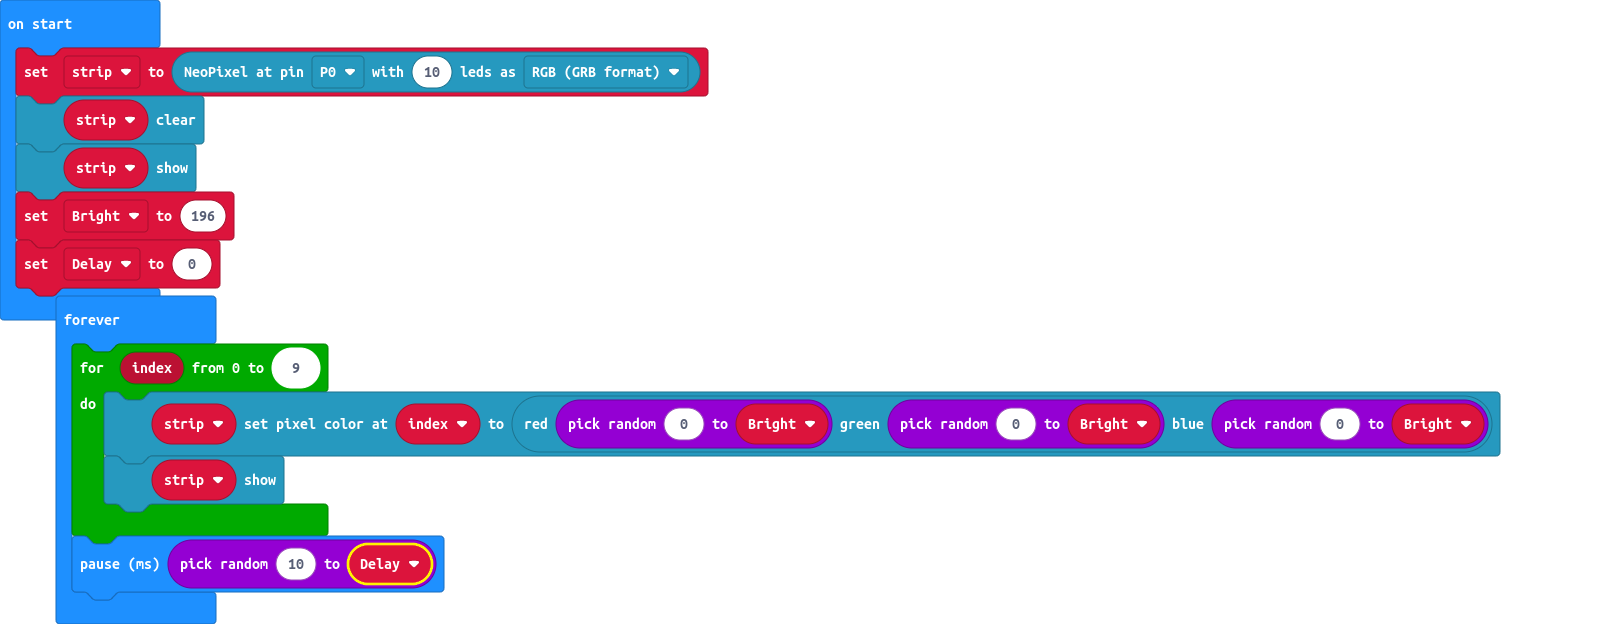
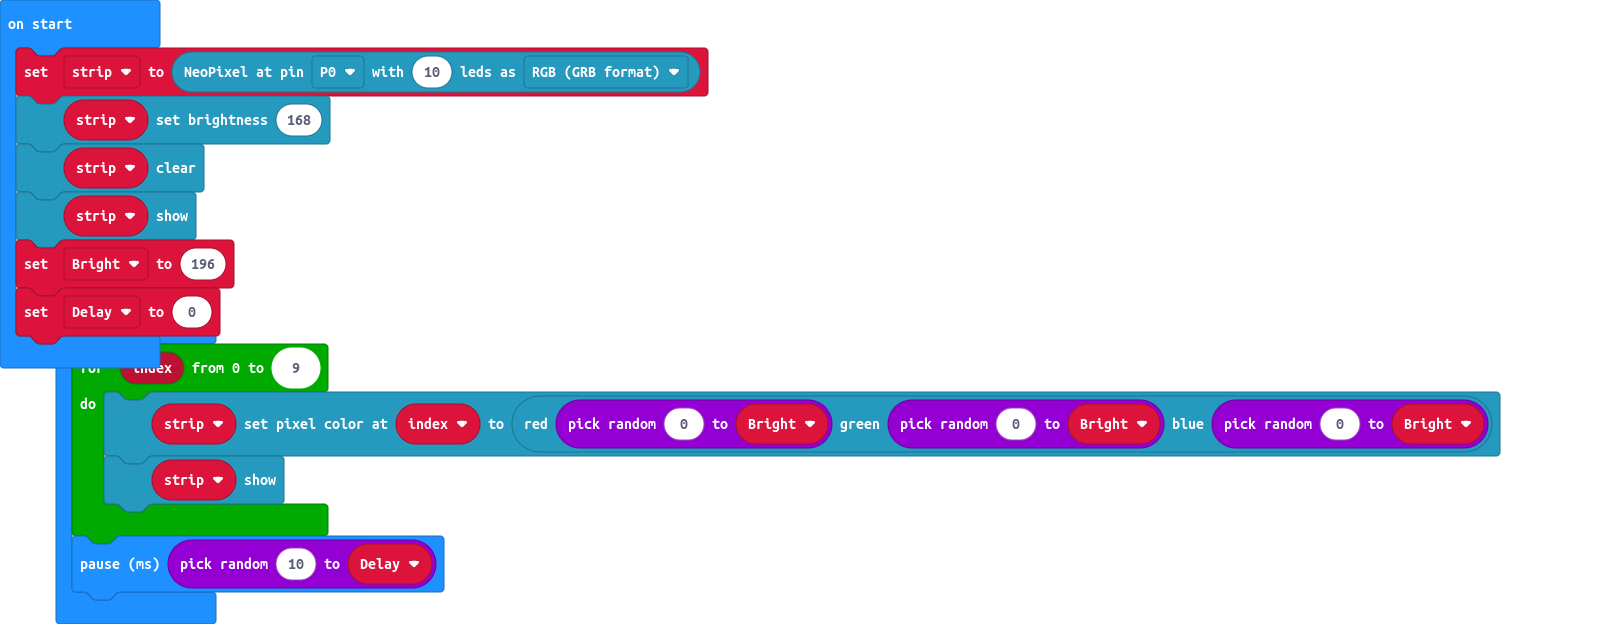
Update main.blocks, main.ts

diff --git a/main.ts b/main.ts
@@ -1,4 +1,5 @@
 let strip = neopixel.create(DigitalPin.P0, 10, NeoPixelMode.RGB)
+strip.setBrightness(168)
 strip.clear()
 strip.show()
 let Bright = 196
